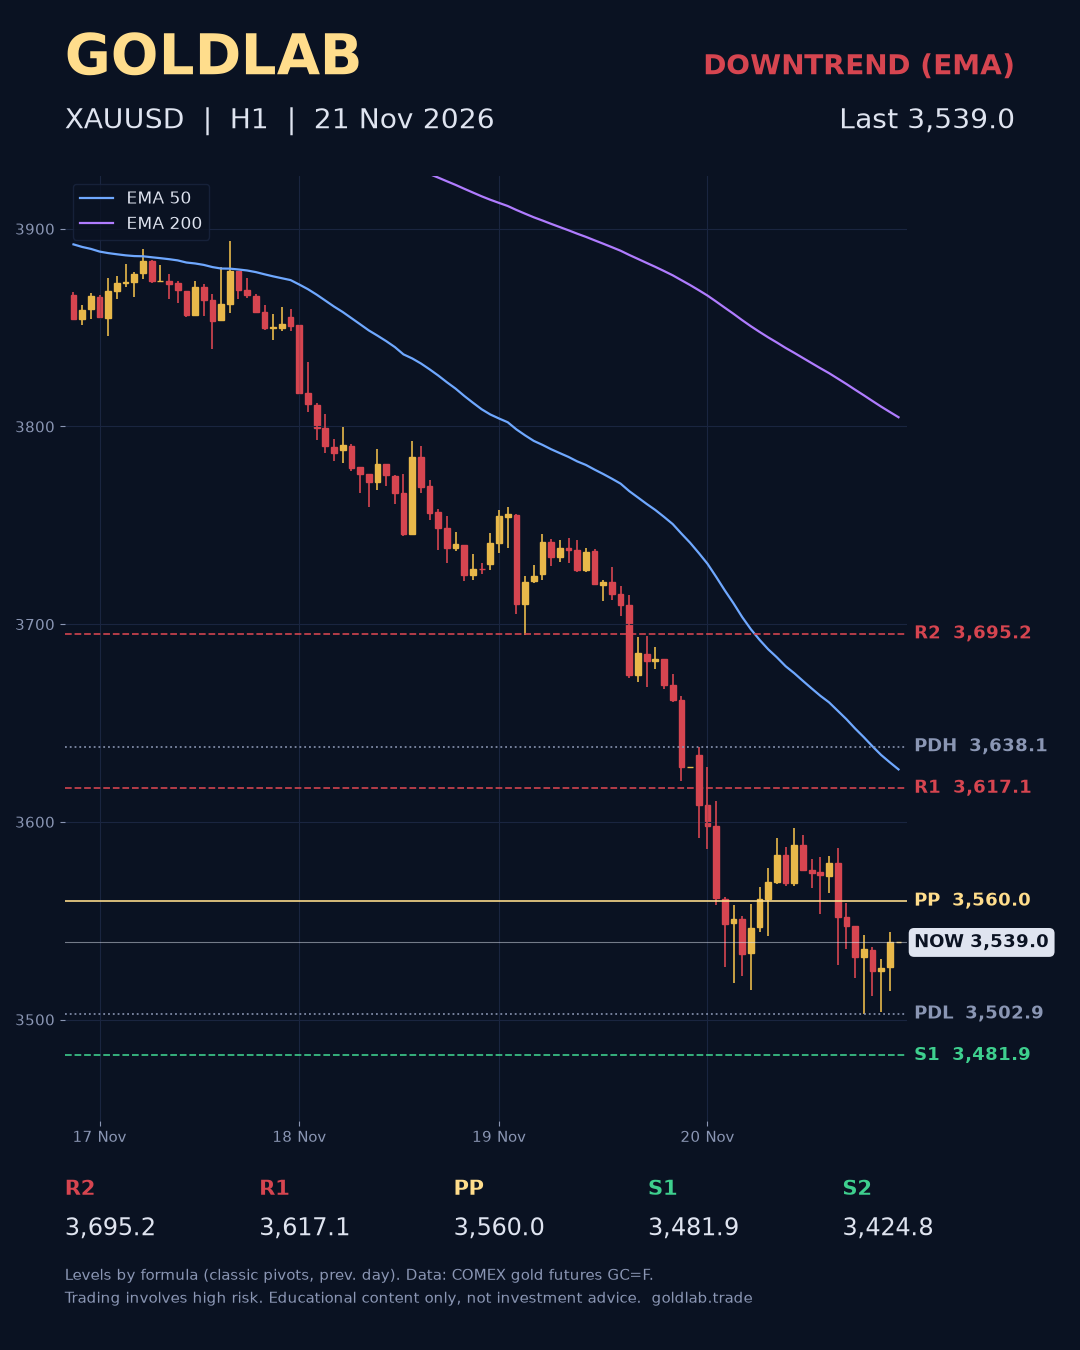
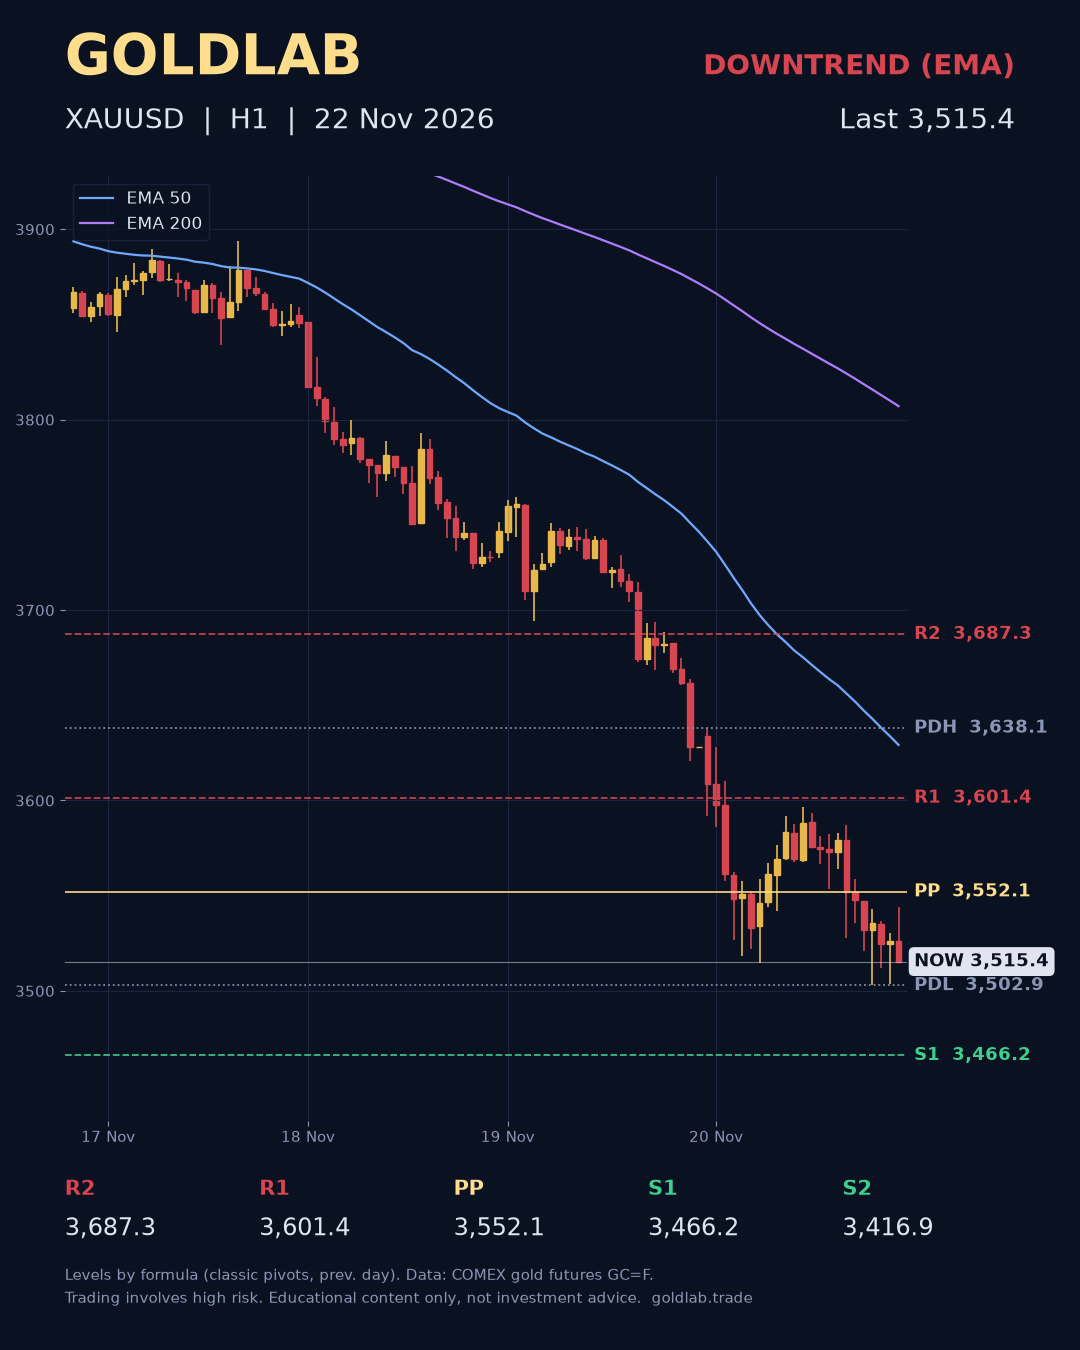
Update gold price 3,515.4 (2026-11-22 00:45 UTC)

diff --git a/th/index.html b/th/index.html
@@ -61,7 +61,7 @@
     </div>
     <figure class="chart-card">
       <img src="../assets/latest.png" alt="กราฟ XAUUSD · H1" width="1080" height="1350">
-      <figcaption class="chart-meta"><span>กราฟ XAUUSD · H1</span><span>อัปเดต <b>2026-11-21 00:45 UTC</b></span></figcaption>
+      <figcaption class="chart-meta"><span>กราฟ XAUUSD · H1</span><span>อัปเดต <b>2026-11-22 00:45 UTC</b></span></figcaption>
     </figure>
   </div>
 </section>
@@ -76,17 +76,17 @@
     <div class="levels">
       <div class="panel">
         <div class="label">ราคาล่าสุด (USD/ออนซ์)</div>
-        <div class="price-big">3,539.0</div>
+        <div class="price-big">3,515.4</div>
         <span class="trend down">ขาลง</span>
         <p class="trend-note">ราคาอยู่ใต้ EMA 50 และ 200 บนกราฟ H1</p>
       </div>
       <div class="panel">
         <div class="ladder">
-          <div class="row r"><span class="tag">R2</span><span class="bar"></span><span class="val">3,695.2</span></div>
-          <div class="row r"><span class="tag">R1</span><span class="bar"></span><span class="val">3,617.1</span></div>
-          <div class="row p"><span class="tag">PIVOT</span><span class="bar"></span><span class="val">3,560.0</span></div>
-          <div class="row s"><span class="tag">S1</span><span class="bar"></span><span class="val">3,481.9</span></div>
-          <div class="row s"><span class="tag">S2</span><span class="bar"></span><span class="val">3,424.8</span></div>
+          <div class="row r"><span class="tag">R2</span><span class="bar"></span><span class="val">3,687.3</span></div>
+          <div class="row r"><span class="tag">R1</span><span class="bar"></span><span class="val">3,601.4</span></div>
+          <div class="row p"><span class="tag">PIVOT</span><span class="bar"></span><span class="val">3,552.1</span></div>
+          <div class="row s"><span class="tag">S1</span><span class="bar"></span><span class="val">3,466.2</span></div>
+          <div class="row s"><span class="tag">S2</span><span class="bar"></span><span class="val">3,416.9</span></div>
         </div>
         <p class="src">High วันก่อน <b>3,638.1</b> · Low วันก่อน <b>3,502.9</b><br>ข้อมูล: ทองคำล่วงหน้า COMEX (GC=F) ล่าช้าประมาณ 15 นาที ราคาอาจต่างจากราคา spot ในโบรกของคุณเล็กน้อย</p>
       </div>

diff --git a/vi/index.html b/vi/index.html
@@ -61,7 +61,7 @@
     </div>
     <figure class="chart-card">
       <img src="../assets/latest.png" alt="Biểu đồ XAUUSD · H1" width="1080" height="1350">
-      <figcaption class="chart-meta"><span>Biểu đồ XAUUSD · H1</span><span>Cập nhật <b>2026-11-21 00:45 UTC</b></span></figcaption>
+      <figcaption class="chart-meta"><span>Biểu đồ XAUUSD · H1</span><span>Cập nhật <b>2026-11-22 00:45 UTC</b></span></figcaption>
     </figure>
   </div>
 </section>
@@ -76,17 +76,17 @@
     <div class="levels">
       <div class="panel">
         <div class="label">Giá gần nhất (USD/oz)</div>
-        <div class="price-big">3,539.0</div>
+        <div class="price-big">3,515.4</div>
         <span class="trend down">Xu hướng giảm</span>
         <p class="trend-note">Giá nằm dưới cả EMA 50 và 200 khung H1.</p>
       </div>
       <div class="panel">
         <div class="ladder">
-          <div class="row r"><span class="tag">R2</span><span class="bar"></span><span class="val">3,695.2</span></div>
-          <div class="row r"><span class="tag">R1</span><span class="bar"></span><span class="val">3,617.1</span></div>
-          <div class="row p"><span class="tag">PIVOT</span><span class="bar"></span><span class="val">3,560.0</span></div>
-          <div class="row s"><span class="tag">S1</span><span class="bar"></span><span class="val">3,481.9</span></div>
-          <div class="row s"><span class="tag">S2</span><span class="bar"></span><span class="val">3,424.8</span></div>
+          <div class="row r"><span class="tag">R2</span><span class="bar"></span><span class="val">3,687.3</span></div>
+          <div class="row r"><span class="tag">R1</span><span class="bar"></span><span class="val">3,601.4</span></div>
+          <div class="row p"><span class="tag">PIVOT</span><span class="bar"></span><span class="val">3,552.1</span></div>
+          <div class="row s"><span class="tag">S1</span><span class="bar"></span><span class="val">3,466.2</span></div>
+          <div class="row s"><span class="tag">S2</span><span class="bar"></span><span class="val">3,416.9</span></div>
         </div>
         <p class="src">Đỉnh phiên trước <b>3,638.1</b> · Đáy phiên trước <b>3,502.9</b><br>Dữ liệu: hợp đồng vàng tương lai COMEX (GC=F), trễ khoảng 15 phút. Giá có thể chênh vài đô la so với giá spot của sàn bạn dùng.</p>
       </div>

diff --git a/es/index.html b/es/index.html
@@ -61,7 +61,7 @@
     </div>
     <figure class="chart-card">
       <img src="../assets/latest.png" alt="Gráfico XAUUSD · H1" width="1080" height="1350">
-      <figcaption class="chart-meta"><span>Gráfico XAUUSD · H1</span><span>Actualizado <b>2026-11-21 00:45 UTC</b></span></figcaption>
+      <figcaption class="chart-meta"><span>Gráfico XAUUSD · H1</span><span>Actualizado <b>2026-11-22 00:45 UTC</b></span></figcaption>
     </figure>
   </div>
 </section>
@@ -76,17 +76,17 @@
     <div class="levels">
       <div class="panel">
         <div class="label">Último precio (USD/oz)</div>
-        <div class="price-big">3,539.0</div>
+        <div class="price-big">3,515.4</div>
         <span class="trend down">Tendencia bajista</span>
         <p class="trend-note">El precio está por debajo de la EMA 50 y 200 en H1.</p>
       </div>
       <div class="panel">
         <div class="ladder">
-          <div class="row r"><span class="tag">R2</span><span class="bar"></span><span class="val">3,695.2</span></div>
-          <div class="row r"><span class="tag">R1</span><span class="bar"></span><span class="val">3,617.1</span></div>
-          <div class="row p"><span class="tag">PIVOT</span><span class="bar"></span><span class="val">3,560.0</span></div>
-          <div class="row s"><span class="tag">S1</span><span class="bar"></span><span class="val">3,481.9</span></div>
-          <div class="row s"><span class="tag">S2</span><span class="bar"></span><span class="val">3,424.8</span></div>
+          <div class="row r"><span class="tag">R2</span><span class="bar"></span><span class="val">3,687.3</span></div>
+          <div class="row r"><span class="tag">R1</span><span class="bar"></span><span class="val">3,601.4</span></div>
+          <div class="row p"><span class="tag">PIVOT</span><span class="bar"></span><span class="val">3,552.1</span></div>
+          <div class="row s"><span class="tag">S1</span><span class="bar"></span><span class="val">3,466.2</span></div>
+          <div class="row s"><span class="tag">S2</span><span class="bar"></span><span class="val">3,416.9</span></div>
         </div>
         <p class="src">Máximo anterior <b>3,638.1</b> · Mínimo anterior <b>3,502.9</b><br>Datos: futuros de oro COMEX (GC=F), con ~15 min de retraso. Pueden diferir unos dólares del precio spot de tu bróker.</p>
       </div>

diff --git a/id/index.html b/id/index.html
@@ -61,7 +61,7 @@
     </div>
     <figure class="chart-card">
       <img src="../assets/latest.png" alt="Grafik XAUUSD · H1" width="1080" height="1350">
-      <figcaption class="chart-meta"><span>Grafik XAUUSD · H1</span><span>Diperbarui <b>2026-11-21 00:45 UTC</b></span></figcaption>
+      <figcaption class="chart-meta"><span>Grafik XAUUSD · H1</span><span>Diperbarui <b>2026-11-22 00:45 UTC</b></span></figcaption>
     </figure>
   </div>
 </section>
@@ -76,17 +76,17 @@
     <div class="levels">
       <div class="panel">
         <div class="label">Harga terakhir (USD/oz)</div>
-        <div class="price-big">3,539.0</div>
+        <div class="price-big">3,515.4</div>
         <span class="trend down">Tren turun</span>
         <p class="trend-note">Harga berada di bawah EMA 50 dan 200 pada H1.</p>
       </div>
       <div class="panel">
         <div class="ladder">
-          <div class="row r"><span class="tag">R2</span><span class="bar"></span><span class="val">3,695.2</span></div>
-          <div class="row r"><span class="tag">R1</span><span class="bar"></span><span class="val">3,617.1</span></div>
-          <div class="row p"><span class="tag">PIVOT</span><span class="bar"></span><span class="val">3,560.0</span></div>
-          <div class="row s"><span class="tag">S1</span><span class="bar"></span><span class="val">3,481.9</span></div>
-          <div class="row s"><span class="tag">S2</span><span class="bar"></span><span class="val">3,424.8</span></div>
+          <div class="row r"><span class="tag">R2</span><span class="bar"></span><span class="val">3,687.3</span></div>
+          <div class="row r"><span class="tag">R1</span><span class="bar"></span><span class="val">3,601.4</span></div>
+          <div class="row p"><span class="tag">PIVOT</span><span class="bar"></span><span class="val">3,552.1</span></div>
+          <div class="row s"><span class="tag">S1</span><span class="bar"></span><span class="val">3,466.2</span></div>
+          <div class="row s"><span class="tag">S2</span><span class="bar"></span><span class="val">3,416.9</span></div>
         </div>
         <p class="src">High sebelumnya <b>3,638.1</b> · Low sebelumnya <b>3,502.9</b><br>Data: emas berjangka COMEX (GC=F), tertunda ~15 menit. Harga bisa berbeda beberapa dolar dari harga spot broker Anda.</p>
       </div>

diff --git a/index.html b/index.html
@@ -61,7 +61,7 @@
     </div>
     <figure class="chart-card">
       <img src="assets/latest.png" alt="XAUUSD · H1 chart" width="1080" height="1350">
-      <figcaption class="chart-meta"><span>XAUUSD · H1 chart</span><span>Updated <b>2026-11-21 00:45 UTC</b></span></figcaption>
+      <figcaption class="chart-meta"><span>XAUUSD · H1 chart</span><span>Updated <b>2026-11-22 00:45 UTC</b></span></figcaption>
     </figure>
   </div>
 </section>
@@ -76,17 +76,17 @@
     <div class="levels">
       <div class="panel">
         <div class="label">Last price (USD/oz)</div>
-        <div class="price-big">3,539.0</div>
+        <div class="price-big">3,515.4</div>
         <span class="trend down">Downtrend</span>
         <p class="trend-note">Price is below both the 50 and 200 EMA on H1.</p>
       </div>
       <div class="panel">
         <div class="ladder">
-          <div class="row r"><span class="tag">R2</span><span class="bar"></span><span class="val">3,695.2</span></div>
-          <div class="row r"><span class="tag">R1</span><span class="bar"></span><span class="val">3,617.1</span></div>
-          <div class="row p"><span class="tag">PIVOT</span><span class="bar"></span><span class="val">3,560.0</span></div>
-          <div class="row s"><span class="tag">S1</span><span class="bar"></span><span class="val">3,481.9</span></div>
-          <div class="row s"><span class="tag">S2</span><span class="bar"></span><span class="val">3,424.8</span></div>
+          <div class="row r"><span class="tag">R2</span><span class="bar"></span><span class="val">3,687.3</span></div>
+          <div class="row r"><span class="tag">R1</span><span class="bar"></span><span class="val">3,601.4</span></div>
+          <div class="row p"><span class="tag">PIVOT</span><span class="bar"></span><span class="val">3,552.1</span></div>
+          <div class="row s"><span class="tag">S1</span><span class="bar"></span><span class="val">3,466.2</span></div>
+          <div class="row s"><span class="tag">S2</span><span class="bar"></span><span class="val">3,416.9</span></div>
         </div>
         <p class="src">Previous high <b>3,638.1</b> · Previous low <b>3,502.9</b><br>Data: COMEX gold futures (GC=F), delayed ~15 min. Quotes can differ from your broker's spot price by a few dollars.</p>
       </div>
